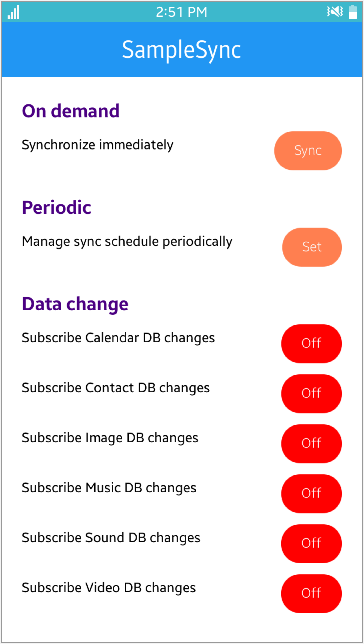
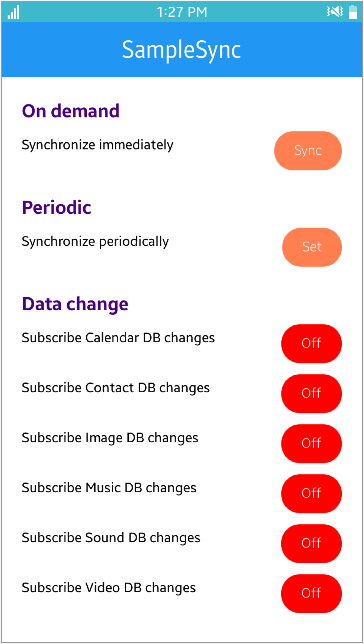
Added scroller on MainPage

Changed region(s): [[0.0604, 0.3416, 0.6346, 0.4037], [0.4231, 0.0, 0.5137, 0.0311]]

diff --git a/Mobile/SampleSync/SampleSync/SampleSync/Views/SyncMainPage.xaml b/Mobile/SampleSync/SampleSync/SampleSync/Views/SyncMainPage.xaml
@@ -4,163 +4,165 @@
              x:Class="SampleSync.Views.SyncMainPage"
              Title="SampleSync" >
     <ContentPage.Content>
-        <StackLayout BackgroundColor="White" Padding="40, 0" >
-            <Label></Label>
-            <Grid>
-                <Grid.RowDefinitions>
-                    <RowDefinition Height="Auto" />
-                </Grid.RowDefinitions>
-                <Grid.ColumnDefinitions>
-                    <ColumnDefinition Width="Auto" />
-                    <ColumnDefinition Width="*" />
-                </Grid.ColumnDefinitions>
-                <Label Text="On demand" Grid.Row="0" Grid.Column="0" TextColor="Indigo" Font="Bold" FontSize="Large" />
-                <Label Grid.Row="0" Grid.Column="1"/>
-            </Grid>
-            <Label HeightRequest="3"></Label>
-            <Grid>
-                <Grid.RowDefinitions>
-                    <RowDefinition Height="Auto" />
-                    <RowDefinition Height="20" />
-                </Grid.RowDefinitions>
-                <Grid.ColumnDefinitions>
-                    <ColumnDefinition Width="Auto" />
-                    <ColumnDefinition Width="*" />
-                    <ColumnDefinition Width="Auto" />
-                </Grid.ColumnDefinitions>
-                <Label Text="Synchronize immediately" Grid.Row="0" Grid.Column="0" XAlign="Center" YAlign="Center" />
-                <Label Text="" x:Name="ondemanddate" Grid.Row="1" Grid.Column="0" Grid.ColumnSpan="2" TextColor="SlateGray" FontSize="16" />
-                <Button Clicked="OnDemandClicked" Text="Sync" ClassId="ondemand" FontSize="Medium" BackgroundColor="Coral" Grid.Row="0" Grid.Column="2" Grid.RowSpan="2"></Button>
-            </Grid>
-            <Label ></Label>
-            <Grid>
-                <Grid.RowDefinitions>
-                    <RowDefinition Height="Auto" />
-                </Grid.RowDefinitions>
-                <Grid.ColumnDefinitions>
-                    <ColumnDefinition Width="Auto" />
-                    <ColumnDefinition Width="*" />
-                </Grid.ColumnDefinitions>
-                <Label Text="Periodic" Grid.Row="0" Grid.Column="0" TextColor="Indigo" Font="Bold" FontSize="Large" />
-                <Label Grid.Row="0" Grid.Column="1"/>
-            </Grid>
-            <Label HeightRequest="3"></Label>
-            <Grid>
-                <Grid.RowDefinitions>
-                    <RowDefinition Height="Auto" />
-                    <RowDefinition Height="20" />
-                </Grid.RowDefinitions>
-                <Grid.ColumnDefinitions>
-                    <ColumnDefinition Width="Auto" />
-                    <ColumnDefinition Width="*" />
-                    <ColumnDefinition Width="Auto" />
-                </Grid.ColumnDefinitions>
-                <Label Text="Manage sync schedule periodically" Grid.Row="0" Grid.Column="0" XAlign="Center" YAlign="Center" />
-                <Label Text="" x:Name="periodicdate" Grid.Row="1" Grid.Column="0" Grid.ColumnSpan="2" TextColor="SlateGray" FontSize="16" />
-                <Button Text="Set" x:Name="periodicbutton" BackgroundColor="Coral" Clicked="PeriodicClicked" Grid.Row="0" Grid.Column="2" Grid.RowSpan="2"></Button>
-            </Grid>
-            <Label></Label>
-            <Grid>
-                <Grid.RowDefinitions>
-                    <RowDefinition Height="Auto" />
-                </Grid.RowDefinitions>
-                <Grid.ColumnDefinitions>
-                    <ColumnDefinition Width="Auto" />
-                    <ColumnDefinition Width="*" />
-                </Grid.ColumnDefinitions>
-                <Label Text="Data change" Grid.Row="0" Grid.Column="0" TextColor="Indigo" Font="Bold" FontSize="Large" />
-                <Label Grid.Row="0" Grid.Column="1"/>
-            </Grid>
-            <Label HeightRequest="3"></Label>
-            <Grid>
-                <Grid.RowDefinitions>
-                    <RowDefinition Height="Auto" />
-                    <RowDefinition Height="20" />
-                </Grid.RowDefinitions>
-                <Grid.ColumnDefinitions>
-                    <ColumnDefinition Width="Auto" />
-                    <ColumnDefinition Width="*" />
-                    <ColumnDefinition Width="Auto" />
-                </Grid.ColumnDefinitions>
-                <Label Text="Subscribe Calendar DB changes" Grid.Row="0" Grid.Column="0" XAlign="Center" YAlign="Center" />
-                <Label Text="" x:Name="calendardate" Grid.Row="1" Grid.Column="0" Grid.ColumnSpan="2" TextColor="SlateGray" FontSize="16" />
-                <Button Text="Off" x:Name="calendarbutton" BackgroundColor="Red" Clicked="CalendarClicked" Grid.Row="0" Grid.Column="2" Grid.RowSpan="2"></Button>
-            </Grid>
-            <Label HeightRequest="10"></Label>
-            <Grid>
-                <Grid.RowDefinitions>
-                    <RowDefinition Height="Auto" />
-                    <RowDefinition Height="20" />
-                </Grid.RowDefinitions>
-                <Grid.ColumnDefinitions>
-                    <ColumnDefinition Width="Auto" />
-                    <ColumnDefinition Width="*" />
-                    <ColumnDefinition Width="Auto" />
-                </Grid.ColumnDefinitions>
-                <Label Text="Subscribe Contact DB changes" Grid.Row="0" Grid.Column="0" XAlign="Center" YAlign="Center" />
-                <Label Text="" x:Name="contactdate" Grid.Row="1" Grid.Column="0" Grid.ColumnSpan="2" TextColor="SlateGray" FontSize="16" />
-                <Button Text="Off" x:Name="contactbutton" BackgroundColor="Red" Clicked="ContactClicked" Grid.Row="0" Grid.Column="2" Grid.RowSpan="2"></Button>
-            </Grid>
-            <Label HeightRequest="10"></Label>
-            <Grid>
-                <Grid.RowDefinitions>
-                    <RowDefinition Height="Auto" />
-                    <RowDefinition Height="20" />
-                </Grid.RowDefinitions>
-                <Grid.ColumnDefinitions>
-                    <ColumnDefinition Width="Auto" />
-                    <ColumnDefinition Width="*" />
-                    <ColumnDefinition Width="Auto" />
-                </Grid.ColumnDefinitions>
-                <Label Text="Subscribe Image DB changes" Grid.Row="0" Grid.Column="0" XAlign="Center" YAlign="Center" />
-                <Label Text="" x:Name="imagedate" Grid.Row="1" Grid.Column="0" Grid.ColumnSpan="2" TextColor="SlateGray" FontSize="16" />
-                <Button Text="Off" x:Name="imagebutton" BackgroundColor="Red" Clicked="ImageClicked" Grid.Row="0" Grid.Column="2" Grid.RowSpan="2"></Button>
-            </Grid>
-            <Label HeightRequest="10"></Label>
-            <Grid>
-                <Grid.RowDefinitions>
-                    <RowDefinition Height="Auto" />
-                    <RowDefinition Height="20" />
-                </Grid.RowDefinitions>
-                <Grid.ColumnDefinitions>
-                    <ColumnDefinition Width="Auto" />
-                    <ColumnDefinition Width="*" />
-                    <ColumnDefinition Width="Auto" />
-                </Grid.ColumnDefinitions>
-                <Label Text="Subscribe Music DB changes" Grid.Row="0" Grid.Column="0" XAlign="Center" YAlign="Center" />
-                <Label Text="" x:Name="musicdate" Grid.Row="1" Grid.Column="0" Grid.ColumnSpan="2" TextColor="SlateGray" FontSize="16" />
-                <Button Text="Off" x:Name="musicbutton" BackgroundColor="Red" Clicked="MusicClicked" Grid.Row="0" Grid.Column="2" Grid.RowSpan="2"></Button>
-            </Grid>
-            <Label HeightRequest="10"></Label>
-            <Grid>
-                <Grid.RowDefinitions>
-                    <RowDefinition Height="Auto" />
-                    <RowDefinition Height="20" />
-                </Grid.RowDefinitions>
-                <Grid.ColumnDefinitions>
-                    <ColumnDefinition Width="Auto" />
-                    <ColumnDefinition Width="*" />
-                    <ColumnDefinition Width="Auto" />
-                </Grid.ColumnDefinitions>
-                <Label Text="Subscribe Sound DB changes" Grid.Row="0" Grid.Column="0" XAlign="Center" YAlign="Center" />
-                <Label Text="" x:Name="sounddate" Grid.Row="1" Grid.Column="0" Grid.ColumnSpan="2" TextColor="SlateGray" FontSize="16" />
-                <Button Text="Off" x:Name="soundbutton" BackgroundColor="Red" Clicked="SoundClicked" Grid.Row="0" Grid.Column="2" Grid.RowSpan="2"></Button>
-            </Grid>
-            <Label HeightRequest="10"></Label>
-            <Grid>
-                <Grid.RowDefinitions>
-                    <RowDefinition Height="Auto" />
-                    <RowDefinition Height="20" />
-                </Grid.RowDefinitions>
-                <Grid.ColumnDefinitions>
-                    <ColumnDefinition Width="Auto" />
-                    <ColumnDefinition Width="*" />
-                    <ColumnDefinition Width="Auto" />
-                </Grid.ColumnDefinitions>
-                <Label Text="Subscribe Video DB changes" Grid.Row="0" Grid.Column="0" XAlign="Center" YAlign="Center" />
-                <Label Text="" x:Name="videodate" Grid.Row="1" Grid.Column="0" Grid.ColumnSpan="2" TextColor="SlateGray" FontSize="16" />
-                <Button Text="Off" x:Name="videobutton" BackgroundColor="Red" Clicked="VideoClicked" Grid.Row="0" Grid.Column="2" Grid.RowSpan="2"></Button>
-            </Grid>
-        </StackLayout>
+        <ScrollView Orientation="Vertical" VerticalOptions="FillAndExpand">
+            <StackLayout BackgroundColor="White" Padding="40, 0">
+                <Label></Label>
+                <Grid>
+                    <Grid.RowDefinitions>
+                        <RowDefinition Height="Auto" />
+                    </Grid.RowDefinitions>
+                    <Grid.ColumnDefinitions>
+                        <ColumnDefinition Width="Auto" />
+                        <ColumnDefinition Width="*" />
+                    </Grid.ColumnDefinitions>
+                    <Label Text="On demand" Grid.Row="0" Grid.Column="0" TextColor="Indigo" Font="Bold" FontSize="Large" />
+                    <Label Grid.Row="0" Grid.Column="1"/>
+                </Grid>
+                <Label HeightRequest="3"></Label>
+                <Grid>
+                    <Grid.RowDefinitions>
+                        <RowDefinition Height="Auto" />
+                        <RowDefinition Height="20" />
+                    </Grid.RowDefinitions>
+                    <Grid.ColumnDefinitions>
+                        <ColumnDefinition Width="Auto" />
+                        <ColumnDefinition Width="*" />
+                        <ColumnDefinition Width="Auto" />
+                    </Grid.ColumnDefinitions>
+                    <Label Text="Synchronize immediately" Grid.Row="0" Grid.Column="0" XAlign="Center" YAlign="Center" />
+                    <Label Text="" x:Name="ondemanddate" Grid.Row="1" Grid.Column="0" Grid.ColumnSpan="2" TextColor="SlateGray" FontSize="16" />
+                    <Button Clicked="OnDemandClicked" Text="Sync" ClassId="ondemand" FontSize="Medium" BackgroundColor="Coral" Grid.Row="0" Grid.Column="2" Grid.RowSpan="2"></Button>
+                </Grid>
+                <Label ></Label>
+                <Grid>
+                    <Grid.RowDefinitions>
+                        <RowDefinition Height="Auto" />
+                    </Grid.RowDefinitions>
+                    <Grid.ColumnDefinitions>
+                        <ColumnDefinition Width="Auto" />
+                        <ColumnDefinition Width="*" />
+                    </Grid.ColumnDefinitions>
+                    <Label Text="Periodic" Grid.Row="0" Grid.Column="0" TextColor="Indigo" Font="Bold" FontSize="Large" />
+                    <Label Grid.Row="0" Grid.Column="1"/>
+                </Grid>
+                <Label HeightRequest="3"></Label>
+                <Grid>
+                    <Grid.RowDefinitions>
+                        <RowDefinition Height="Auto" />
+                        <RowDefinition Height="20" />
+                    </Grid.RowDefinitions>
+                    <Grid.ColumnDefinitions>
+                        <ColumnDefinition Width="Auto" />
+                        <ColumnDefinition Width="*" />
+                        <ColumnDefinition Width="Auto" />
+                    </Grid.ColumnDefinitions>
+                    <Label Text="Synchronize periodically" Grid.Row="0" Grid.Column="0" XAlign="Center" YAlign="Center" />
+                    <Label Text="" x:Name="periodicdate" Grid.Row="1" Grid.Column="0" Grid.ColumnSpan="2" TextColor="SlateGray" FontSize="16" />
+                    <Button Text="Set" x:Name="periodicbutton" BackgroundColor="Coral" Clicked="PeriodicClicked" Grid.Row="0" Grid.Column="2" Grid.RowSpan="2"></Button>
+                </Grid>
+                <Label></Label>
+                <Grid>
+                    <Grid.RowDefinitions>
+                        <RowDefinition Height="Auto" />
+                    </Grid.RowDefinitions>
+                    <Grid.ColumnDefinitions>
+                        <ColumnDefinition Width="Auto" />
+                        <ColumnDefinition Width="*" />
+                    </Grid.ColumnDefinitions>
+                    <Label Text="Data change" Grid.Row="0" Grid.Column="0" TextColor="Indigo" Font="Bold" FontSize="Large" />
+                    <Label Grid.Row="0" Grid.Column="1"/>
+                </Grid>
+                <Label HeightRequest="3"></Label>
+                <Grid>
+                    <Grid.RowDefinitions>
+                        <RowDefinition Height="Auto" />
+                        <RowDefinition Height="20" />
+                    </Grid.RowDefinitions>
+                    <Grid.ColumnDefinitions>
+                        <ColumnDefinition Width="Auto" />
+                        <ColumnDefinition Width="*" />
+                        <ColumnDefinition Width="Auto" />
+                    </Grid.ColumnDefinitions>
+                    <Label Text="Subscribe Calendar DB changes" Grid.Row="0" Grid.Column="0" XAlign="Center" YAlign="Center" />
+                    <Label Text="" x:Name="calendardate" Grid.Row="1" Grid.Column="0" Grid.ColumnSpan="2" TextColor="SlateGray" FontSize="16" />
+                    <Button Text="Off" x:Name="calendarbutton" BackgroundColor="Red" Clicked="CalendarClicked" Grid.Row="0" Grid.Column="2" Grid.RowSpan="2"></Button>
+                </Grid>
+                <Label HeightRequest="10"></Label>
+                <Grid>
+                    <Grid.RowDefinitions>
+                        <RowDefinition Height="Auto" />
+                        <RowDefinition Height="20" />
+                    </Grid.RowDefinitions>
+                    <Grid.ColumnDefinitions>
+                        <ColumnDefinition Width="Auto" />
+                        <ColumnDefinition Width="*" />
+                        <ColumnDefinition Width="Auto" />
+                    </Grid.ColumnDefinitions>
+                    <Label Text="Subscribe Contact DB changes" Grid.Row="0" Grid.Column="0" XAlign="Center" YAlign="Center" />
+                    <Label Text="" x:Name="contactdate" Grid.Row="1" Grid.Column="0" Grid.ColumnSpan="2" TextColor="SlateGray" FontSize="16" />
+                    <Button Text="Off" x:Name="contactbutton" BackgroundColor="Red" Clicked="ContactClicked" Grid.Row="0" Grid.Column="2" Grid.RowSpan="2"></Button>
+                </Grid>
+                <Label HeightRequest="10"></Label>
+                <Grid>
+                    <Grid.RowDefinitions>
+                        <RowDefinition Height="Auto" />
+                        <RowDefinition Height="20" />
+                    </Grid.RowDefinitions>
+                    <Grid.ColumnDefinitions>
+                        <ColumnDefinition Width="Auto" />
+                        <ColumnDefinition Width="*" />
+                        <ColumnDefinition Width="Auto" />
+                    </Grid.ColumnDefinitions>
+                    <Label Text="Subscribe Image DB changes" Grid.Row="0" Grid.Column="0" XAlign="Center" YAlign="Center" />
+                    <Label Text="" x:Name="imagedate" Grid.Row="1" Grid.Column="0" Grid.ColumnSpan="2" TextColor="SlateGray" FontSize="16" />
+                    <Button Text="Off" x:Name="imagebutton" BackgroundColor="Red" Clicked="ImageClicked" Grid.Row="0" Grid.Column="2" Grid.RowSpan="2"></Button>
+                </Grid>
+                <Label HeightRequest="10"></Label>
+                <Grid>
+                    <Grid.RowDefinitions>
+                        <RowDefinition Height="Auto" />
+                        <RowDefinition Height="20" />
+                    </Grid.RowDefinitions>
+                    <Grid.ColumnDefinitions>
+                        <ColumnDefinition Width="Auto" />
+                        <ColumnDefinition Width="*" />
+                        <ColumnDefinition Width="Auto" />
+                    </Grid.ColumnDefinitions>
+                    <Label Text="Subscribe Music DB changes" Grid.Row="0" Grid.Column="0" XAlign="Center" YAlign="Center" />
+                    <Label Text="" x:Name="musicdate" Grid.Row="1" Grid.Column="0" Grid.ColumnSpan="2" TextColor="SlateGray" FontSize="16" />
+                    <Button Text="Off" x:Name="musicbutton" BackgroundColor="Red" Clicked="MusicClicked" Grid.Row="0" Grid.Column="2" Grid.RowSpan="2"></Button>
+                </Grid>
+                <Label HeightRequest="10"></Label>
+                <Grid>
+                    <Grid.RowDefinitions>
+                        <RowDefinition Height="Auto" />
+                        <RowDefinition Height="20" />
+                    </Grid.RowDefinitions>
+                    <Grid.ColumnDefinitions>
+                        <ColumnDefinition Width="Auto" />
+                        <ColumnDefinition Width="*" />
+                        <ColumnDefinition Width="Auto" />
+                    </Grid.ColumnDefinitions>
+                    <Label Text="Subscribe Sound DB changes" Grid.Row="0" Grid.Column="0" XAlign="Center" YAlign="Center" />
+                    <Label Text="" x:Name="sounddate" Grid.Row="1" Grid.Column="0" Grid.ColumnSpan="2" TextColor="SlateGray" FontSize="16" />
+                    <Button Text="Off" x:Name="soundbutton" BackgroundColor="Red" Clicked="SoundClicked" Grid.Row="0" Grid.Column="2" Grid.RowSpan="2"></Button>
+                </Grid>
+                <Label HeightRequest="10"></Label>
+                <Grid>
+                    <Grid.RowDefinitions>
+                        <RowDefinition Height="Auto" />
+                        <RowDefinition Height="20" />
+                    </Grid.RowDefinitions>
+                    <Grid.ColumnDefinitions>
+                        <ColumnDefinition Width="Auto" />
+                        <ColumnDefinition Width="*" />
+                        <ColumnDefinition Width="Auto" />
+                    </Grid.ColumnDefinitions>
+                    <Label Text="Subscribe Video DB changes" Grid.Row="0" Grid.Column="0" XAlign="Center" YAlign="Center" />
+                    <Label Text="" x:Name="videodate" Grid.Row="1" Grid.Column="0" Grid.ColumnSpan="2" TextColor="SlateGray" FontSize="16" />
+                    <Button Text="Off" x:Name="videobutton" BackgroundColor="Red" Clicked="VideoClicked" Grid.Row="0" Grid.Column="2" Grid.RowSpan="2"></Button>
+                </Grid>
+            </StackLayout>
+        </ScrollView>
     </ContentPage.Content>
 </ContentPage>
